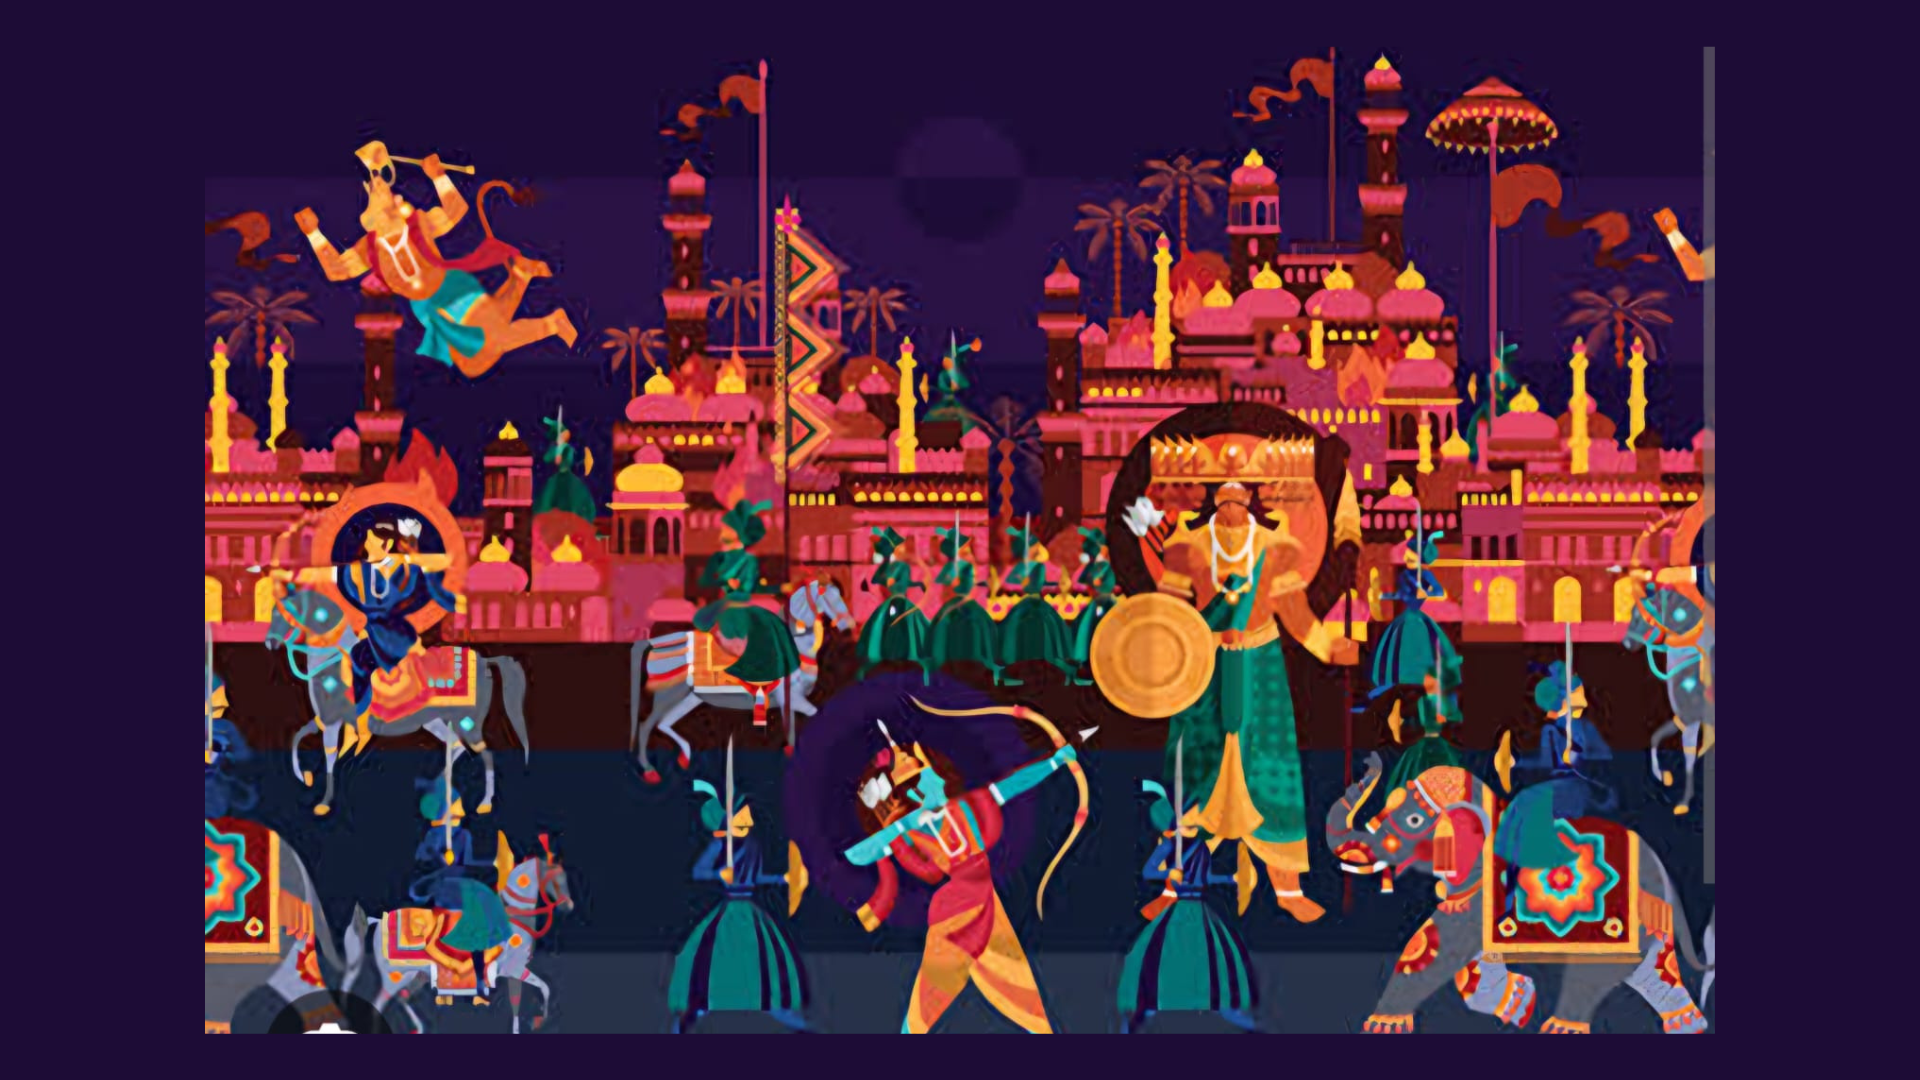
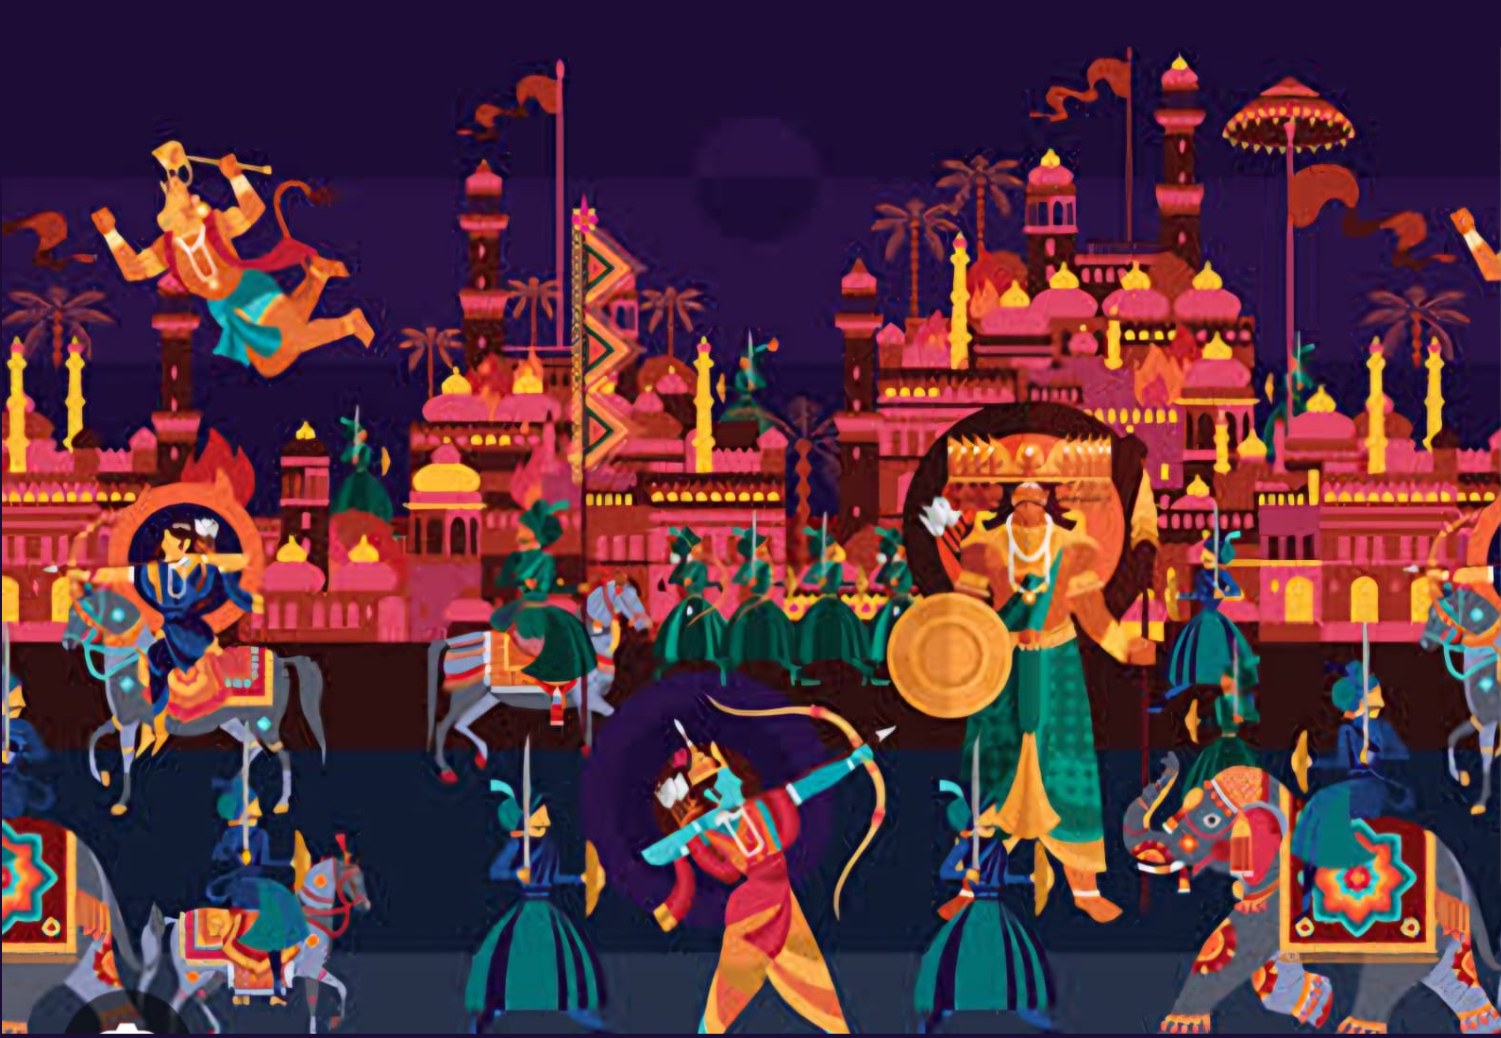
changes in mainbanner

diff --git a/src/components/Instagram/MainBanner.js b/src/components/Instagram/MainBanner.js
@@ -9,7 +9,7 @@ import Image from "next/image";
 import sliderArrow from "/public/images/sliderArrow.svg";
 import { useRef, useEffect, useState } from "react";
 import { sliderData } from "@/utils/Home/DataOfMainBannerSlider/SliderDataMainBanner";
-import { motion } from "framer-motion";
+// import { motion } from "framer-motion";
 
 const swiperOptions = {
   modules: [Autoplay, Pagination, Navigation],
@@ -44,58 +44,66 @@ const MainBanner = () => {
   }, [currentIndex]);
 
   return (
-    <div className="homepage-slider-container">
-      <Swiper
-        {...swiperOptions}
-        onSwiper={(swiper) => (swiperRef.current = swiper)}
-        onSlideChange={(swiper) => setCurrentIndex(swiper.realIndex)}
-      >
-        {sliderData.map((slide, index) => (
-          <SwiperSlide key={index}>
-            <div className="homepage-slider">
-              <div className="homepage-slider-overlay"></div>
-              <Image
-                src={slide.image}
-                alt={slide.title}
-                fill
-                sizes="100vw"
-                className="homepage-slider-image"
-              />
-              <div className="homepage-slider-content">
-                <p className="homepage-slider-description">
-                  {slide.description}
-                </p>
+    <>
+      <div className="homepage-slider-container">
+        <Swiper
+          {...swiperOptions}
+          onSwiper={(swiper) => (swiperRef.current = swiper)}
+          onSlideChange={(swiper) => setCurrentIndex(swiper.realIndex)}
+        >
+          {sliderData.map((slide, index) => (
+            <SwiperSlide key={index}>
+              <div className="homepage-slider">
+                <div className="homepage-slider-overlay"></div>
+                <div className="homepage-image-container">
+                  <Image
+                    src={slide.image}
+                    alt={slide.title}
+                    fill
+                    sizes="100vw"
+                    className="homepage-slider-image"
+                  />
+                </div>
+
+                <div className="homepage-slider-content shimmer">
+                  <p className="homepage-slider-description">
+                    {slide.description}
+                  </p>
+                </div>
               </div>
-            </div>
-          </SwiperSlide>
-        ))}
-      </Swiper>
+            </SwiperSlide>
+          ))}
+        </Swiper>
 
-      <button
-        className="homepage-slider-button homepage-slider-button--left"
-        onClick={() => {
-          swiperRef.current?.slidePrev();
-          setShowPopup(false);
-        }}
-      >
-        <Image
-          src={sliderArrow}
-          alt="Previous"
-          className="homepage-slider-arrow"
-        />
-      </button>
+        <button
+          className="homepage-slider-button homepage-slider-button--left"
+          onClick={() => {
+            swiperRef.current?.slidePrev();
+            setShowPopup(false);
+          }}
+        >
+          <Image
+            src={sliderArrow}
+            alt="Previous"
+            className="homepage-slider-arrow"
+          />
+        </button>
 
-      <button
-        className="homepage-slider-button homepage-slider-button--right"
-        onClick={() => {
-          swiperRef.current?.slideNext();
-          setShowPopup(false);
-        }}
-      >
-        <Image src={sliderArrow} alt="Next" className="homepage-slider-arrow" />
-      </button>
+        <button
+          className="homepage-slider-button homepage-slider-button--right"
+          onClick={() => {
+            swiperRef.current?.slideNext();
+            setShowPopup(false);
+          }}
+        >
+          <Image
+            src={sliderArrow}
+            alt="Next"
+            className="homepage-slider-arrow"
+          />
+        </button>
 
-      {currentIndex === 0 && showPopup && (
+        {/* {currentIndex === 0 && showPopup && (
         <motion.div
           initial={{ opacity: 0, scale: 0.5, x: "-50%", y: "80%" }}
           animate={{ opacity: 1, scale: 1.75, x: "-50%", y: "80%" }}
@@ -107,11 +115,11 @@ const MainBanner = () => {
           }}
           style={{
             position: "absolute",
-            top: "50%",
+            top: "90%",
             left: "50%",
             transform: "translate(-50%, -50%)",
             color: "white",
-            fontSize: "40px", //25px for mobile
+            fontSize: "40px",
             fontWeight: "bold",
             fontFamily: "Garamond, serif",
             textAlign: "center",
@@ -128,8 +136,35 @@ const MainBanner = () => {
         >
           Bharat Darshan at Global Level with Unwind Communications.
         </motion.div>
-      )}
-    </div>
+      )} */}
+      </div>
+
+      <style jsx>{`
+        .shimmer {
+          background: linear-gradient(
+            -45deg,
+            #ffcc70,
+            #d60087,
+            #6100ff,
+            #ff0055
+          );
+          background-size: 400% 400%;
+          animation: shimmerAnimation 3s linear infinite;
+        }
+
+        @keyframes shimmerAnimation {
+          0% {
+            background-position: 0% 50%;
+          }
+          50% {
+            background-position: 100% 50%;
+          }
+          100% {
+            background-position: 0% 50%;
+          }
+        }
+      `}</style>
+    </>
   );
 };
 

diff --git a/styles/style.css b/styles/style.css
@@ -6882,26 +6882,36 @@ Join Area CSS
   left: 0;
   width: 100%;
   height: 100%;
-  background-color: rgba(0, 0, 0, 0.6);
+  background-color: rgba(0, 0, 0, 0.2);
   z-index: 1;
 }
 
 .homepage-slider-image {
-  object-fit: cover;
+  object-fit: fill;
+  width: 100% !important;
+  height: 100%;
+}
+
+.homepage-image-container {
+  position: relative;
+  width: 100% !important;
+  height: 79%; 
+  overflow: hidden; 
 }
 
 .homepage-slider-content {
   position: absolute;
-  top: 50%;
+  bottom: 0%;
+  height: 21%;
   left: 50%;
-  transform: translate(-50%, -50%);
+  transform: translate(-50%, 0%);
   text-align: center;
   color: #fff;
-  padding: 20px;
-  border-radius: 8px;
-  width: 90%;
+  padding: 20px 200px;
+  /* background-color: #000; */
+  /* border-radius: 8px; */
+  width: 100%;
   z-index: 4;
-  max-width: 700px;
 }
 
 .homepage-slider-title {
@@ -6984,7 +6994,8 @@ Join Area CSS
   letter-spacing: 3px;
   color: white;
   margin-bottom: 15px;
-  font-size: 50px;
+  font-size: 40px;
+  text-shadow: 0px 0px 8px rgba(255, 255, 255, 0.8);
   font-weight: 600;
   font-family: Garamond;
   /* opacity: 0;

diff --git a/src/utils/Home/DataOfMainBannerSlider/SliderDataMainBanner.js b/src/utils/Home/DataOfMainBannerSlider/SliderDataMainBanner.js
@@ -38,7 +38,7 @@
 
 export const sliderData = [
   {
-    description: "",
+    description: "  Bharat Darshan at Global Level with Unwind Communications.",
     image: "images/slider/1.gif",
   },
   {
@@ -54,7 +54,7 @@ export const sliderData = [
   {
     description:
       "Partner with Unwind Communications to Elevate your MICE & Wedding Tourism.",
-    image: "images/slider/4.png",
+    image: "images/slider/4.jpeg",
   },
   {
     description:
